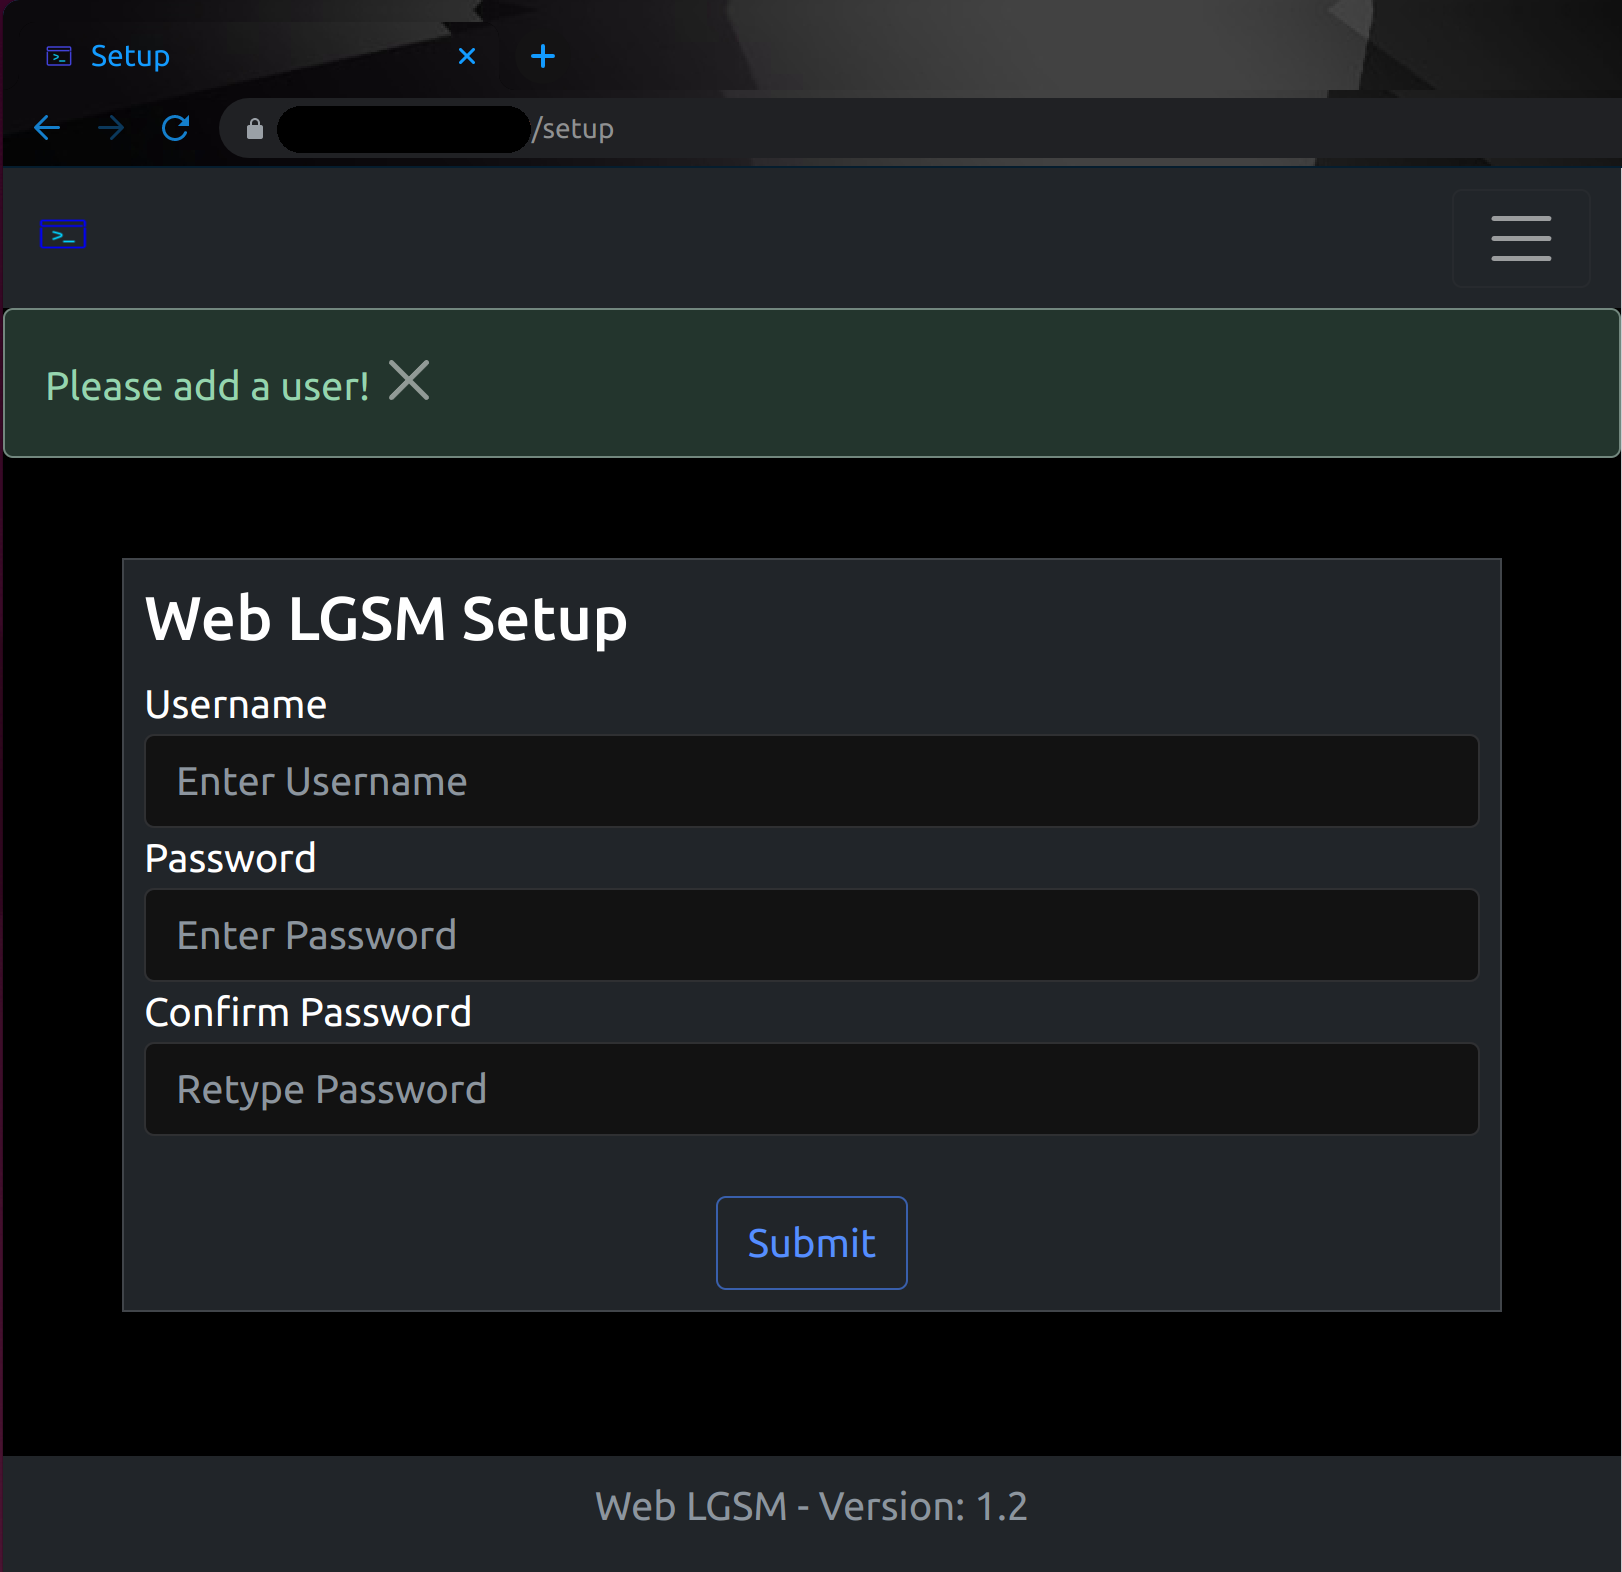
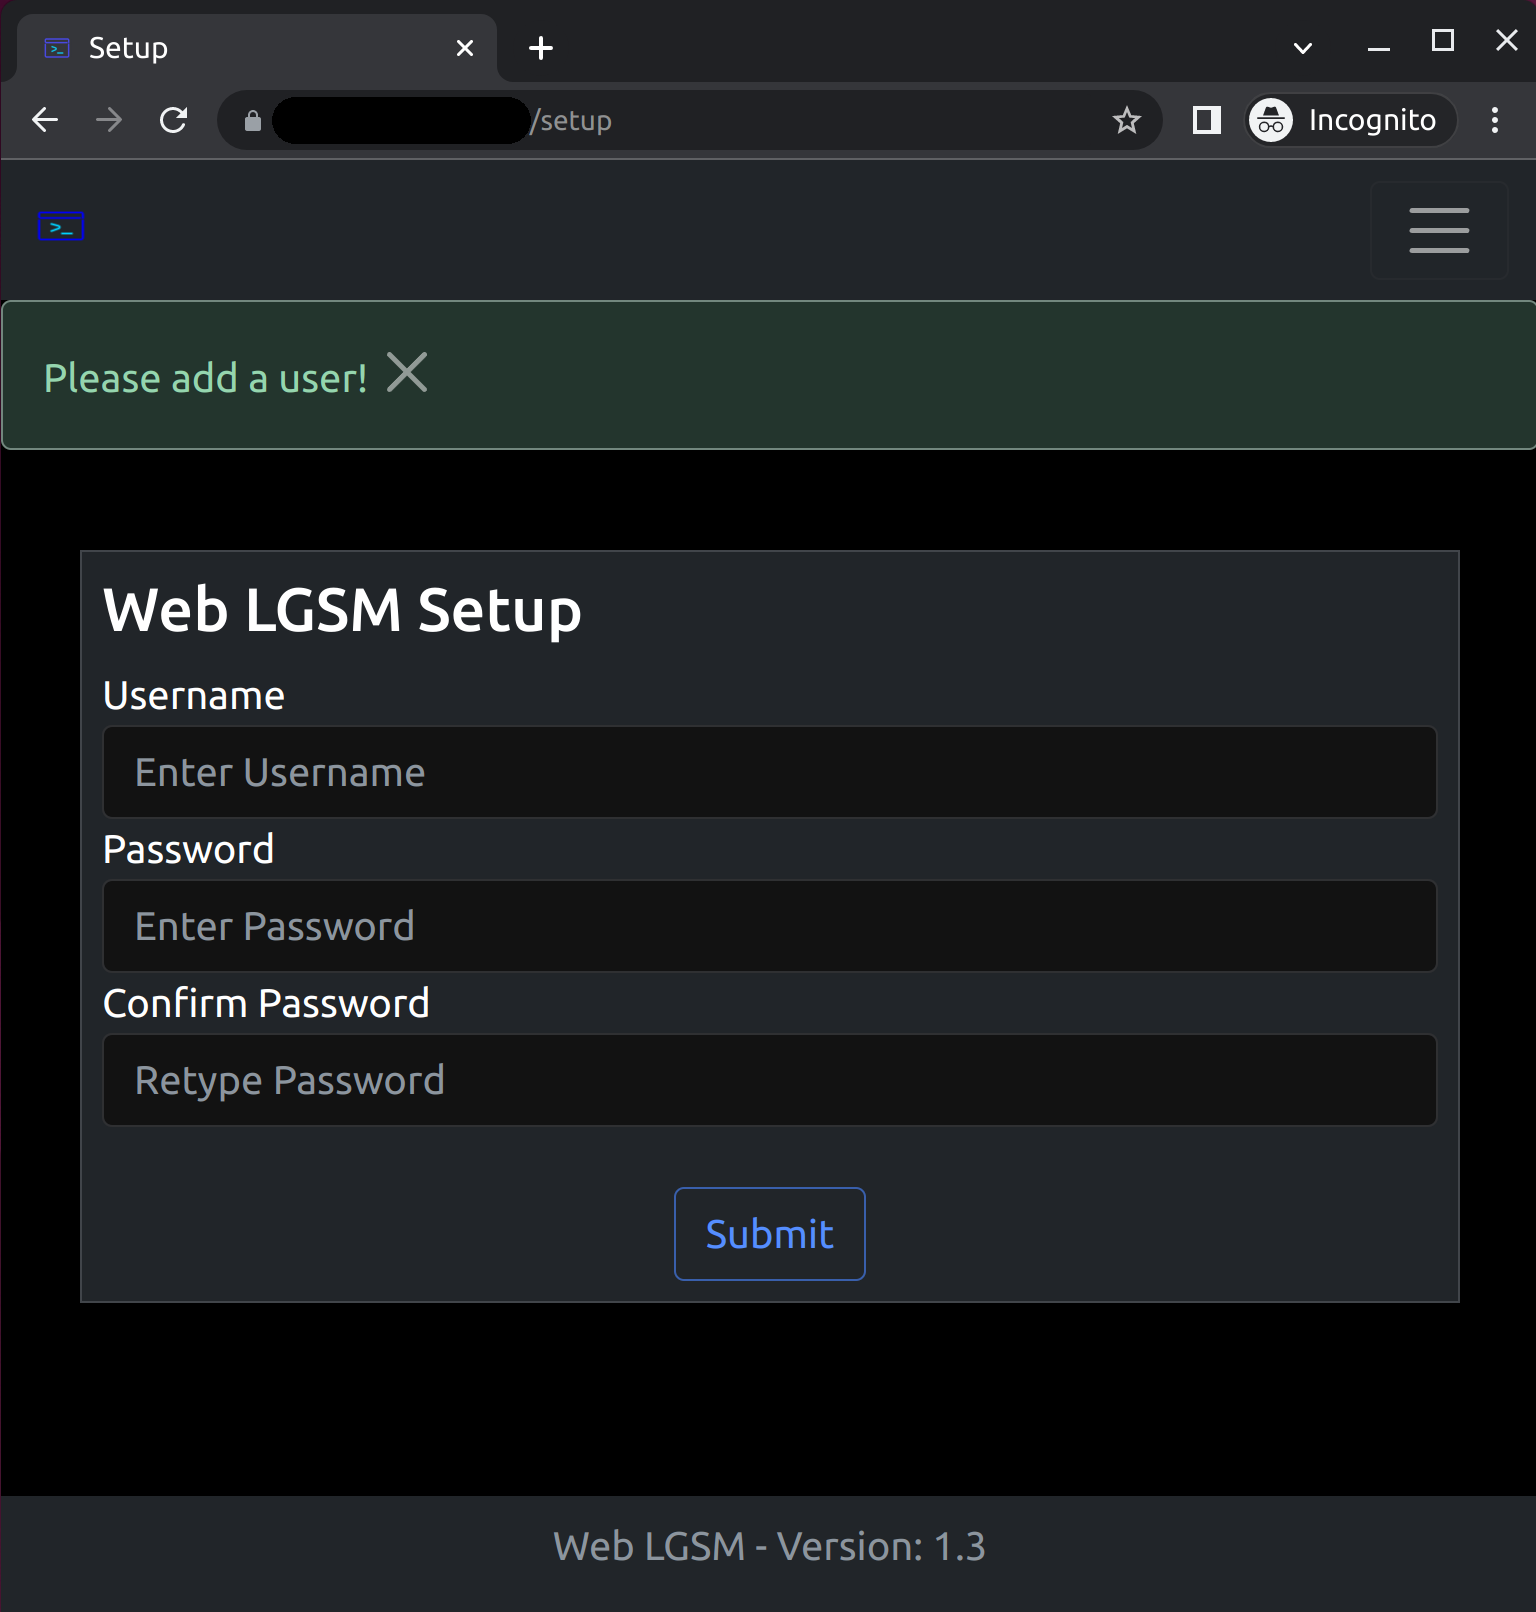
Finish v1.3 Web LGSM Release!
* Added updated pictures & Tweaked Readme.
* Changed version number to 1.3.
* Trimmed some dead code in conftest.py.

diff --git a/app/templates/base.html b/app/templates/base.html
@@ -68,7 +68,7 @@
     <script src="https://cdn.jsdelivr.net/npm/bootstrap@5.1.0/dist/js/bootstrap.bundle.min.js" integrity="sha384-U1DAWAznBHeqEIlVSCgzq+c9gqGAJn5c/t99JyeKa9xxaYpSvHU5awsuZVVFIhvj" crossorigin="anonymous"></script>
 
     <div id="footer-container" class="container-fluid fixed-bottom bg-dark pt-2">
-      <a style="text-decoration: none;" href="/about"><p class="text-center text-muted">Web LGSM - Version: 1.2</p></a>
+      <a style="text-decoration: none;" href="/about"><p class="text-center text-muted">Web LGSM - Version: 1.3</p></a>
     </div>
   </body>
 </html>

diff --git a/tests/conftest.py b/tests/conftest.py
@@ -12,34 +12,6 @@ app_path = os.path.abspath('../app')
 
 sys.path.insert(0, app_path)
 
-# Setup testing env.
-def setup():
-    try:
-        # Move any current db files to epoch time .bak.
-        db_file = 'app/database.db'
-        if os.path.exists(db_file):
-            epoch = str(int(time.time()))
-            os.rename(db_file, db_file + '.' + epoch + '.bak')
-
-#        # Create dummy Minecraft install for testing.
-#        cfg_dst = os.path.abspath('./tests/test_data/Minecraft/lgsm/config-lgsm/mcserver/')
-#        mc_dir = 'tests/test_data/Minecraft'
-#        if not os.path.isdir(mc_dir):
-#            os.makedirs(cfg_dst)
-#
-#        os.chdir(mc_dir)
-#        os.system('wget -O linuxgsm.sh https://linuxgsm.sh')
-#        os.chmod('linuxgsm.sh', 0o755)
-#        os.system('./linuxgsm.sh mcserver')
-#        os.chdir('../../..')
-#        shutil.copy(os.path.abspath('./tests/test_data/common.cfg'), cfg_dst)
-    except Exception as e:
-        error = str(e)
-        sys.exit(f"Setup function failed!!!\n{error}")
-
-# Just run the setup once.
-setup()
-
 @pytest.fixture
 def app():
     application = main()

diff --git a/Readme.md b/Readme.md
@@ -62,6 +62,12 @@ servers.
 
 ![Install Page](docs/images/install_server.png)
 
+Once the installation process is started a set of spinners and an installing...
+message will appear above the live running console output of the ongoing
+installation.
+
+![Installing A Game Server](docs/images/installing_a_game_server.png)
+
 #### Add Page
 
 If you already have an LGSM game server installed and setup on your machine and
@@ -87,6 +93,15 @@ The console page also includes a **live** output feed from the command being
 executed in a python subprocess shell on the system.
 
 ![Running Command](docs/images/running_cmd.png)
+
+#### Config Editor
+
+You can click one of the edit config buttons on a given game server's controls
+page to access the config editor. From the config editor you can change any of
+the necessary game server settings and save them. You can also download a copy
+of the config file.
+
+![Editing A Game Server Config](docs/images/config_editor.png)
 
 #### Settings Page
 
